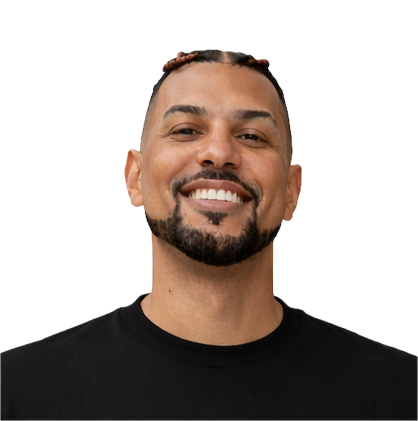
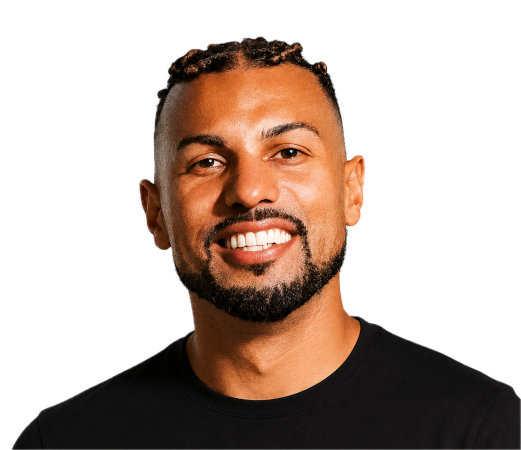
Adjust Ruan and Lair

diff --git a/src/Shared/translations/en.ts b/src/Shared/translations/en.ts
@@ -25,7 +25,8 @@ export default {
     lairCta: 'Want to get to know me better?',
     isaBio:
       'Transforming problems into experiences. Obsessed with understanding people. Between data, intuition, and design, I am also an Astrologer.',
-    ruanBio: 'The Jedi.',
+    ruanBio:
+      'I enjoy working in environments where hard problems are the norm and engineering quality is taken seriously.',
     wagnerBio:
       'Nerd, fan of sports like basketball and soccer, supporter of SC Internacional.',
     juliaBio:

diff --git a/src/Shared/translations/pt.ts b/src/Shared/translations/pt.ts
@@ -26,7 +26,8 @@ export default {
     lairCta: 'Quer me conhecer melhor?',
     isaBio:
       'Transformando problemas em experiências. Obcecada por entender pessoas. Entre dados, intuição e design também sou Astróloga.',
-    ruanBio: 'The Jedi.',
+    ruanBio:
+      'Gosto de trabalhar em ambientes onde problemas difíceis são a norma e a qualidade da engenharia é levada a sério.',
     wagnerBio:
       'Nerd, fã de esportes como basquete e futebol, torcedor do SC Internacional.',
     juliaBio: